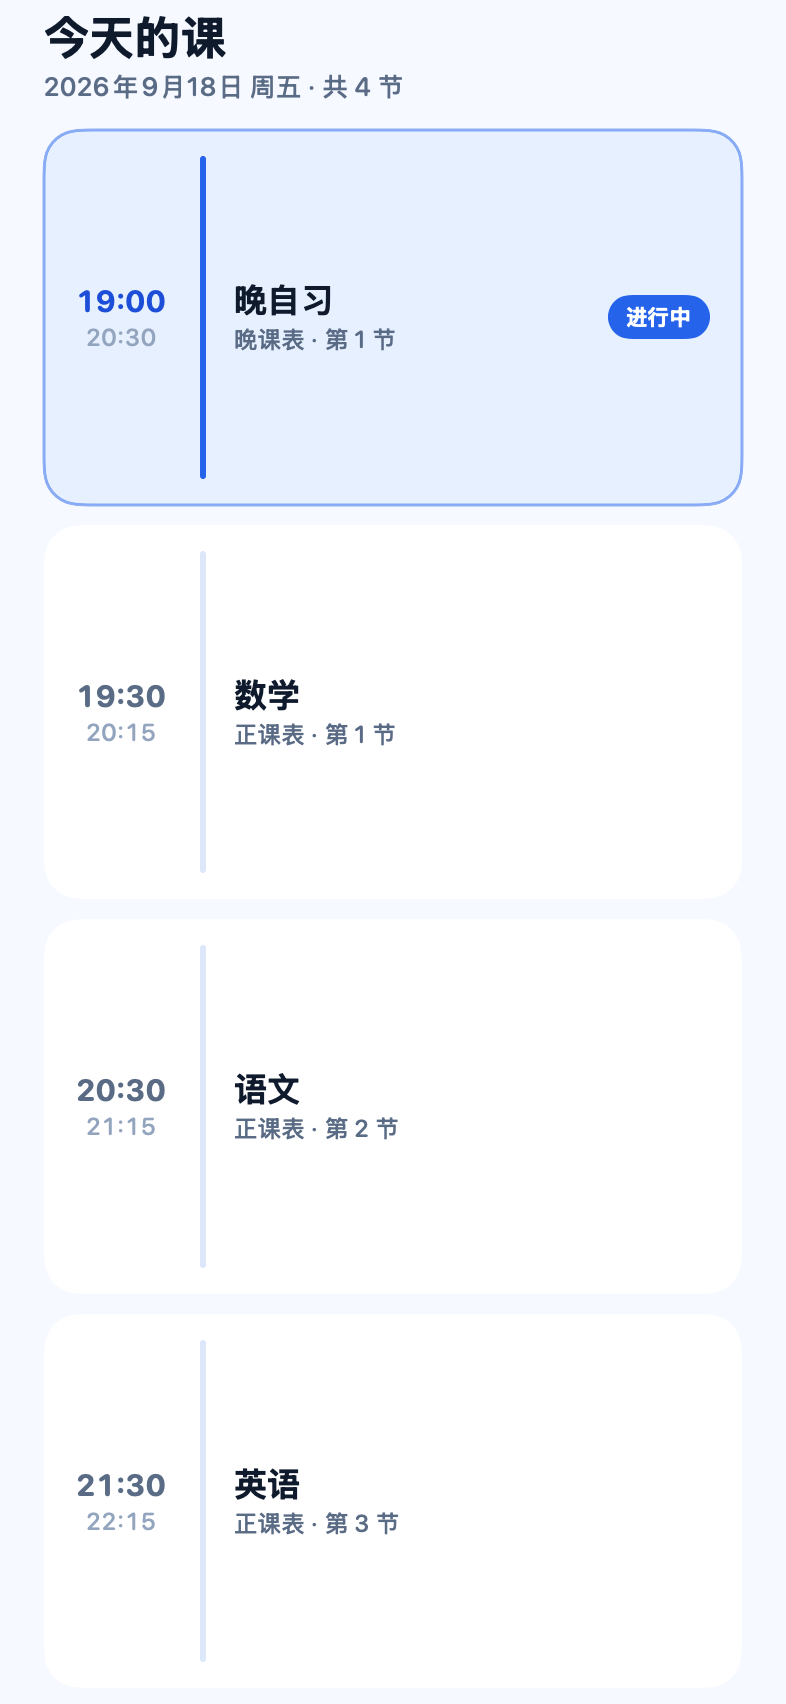
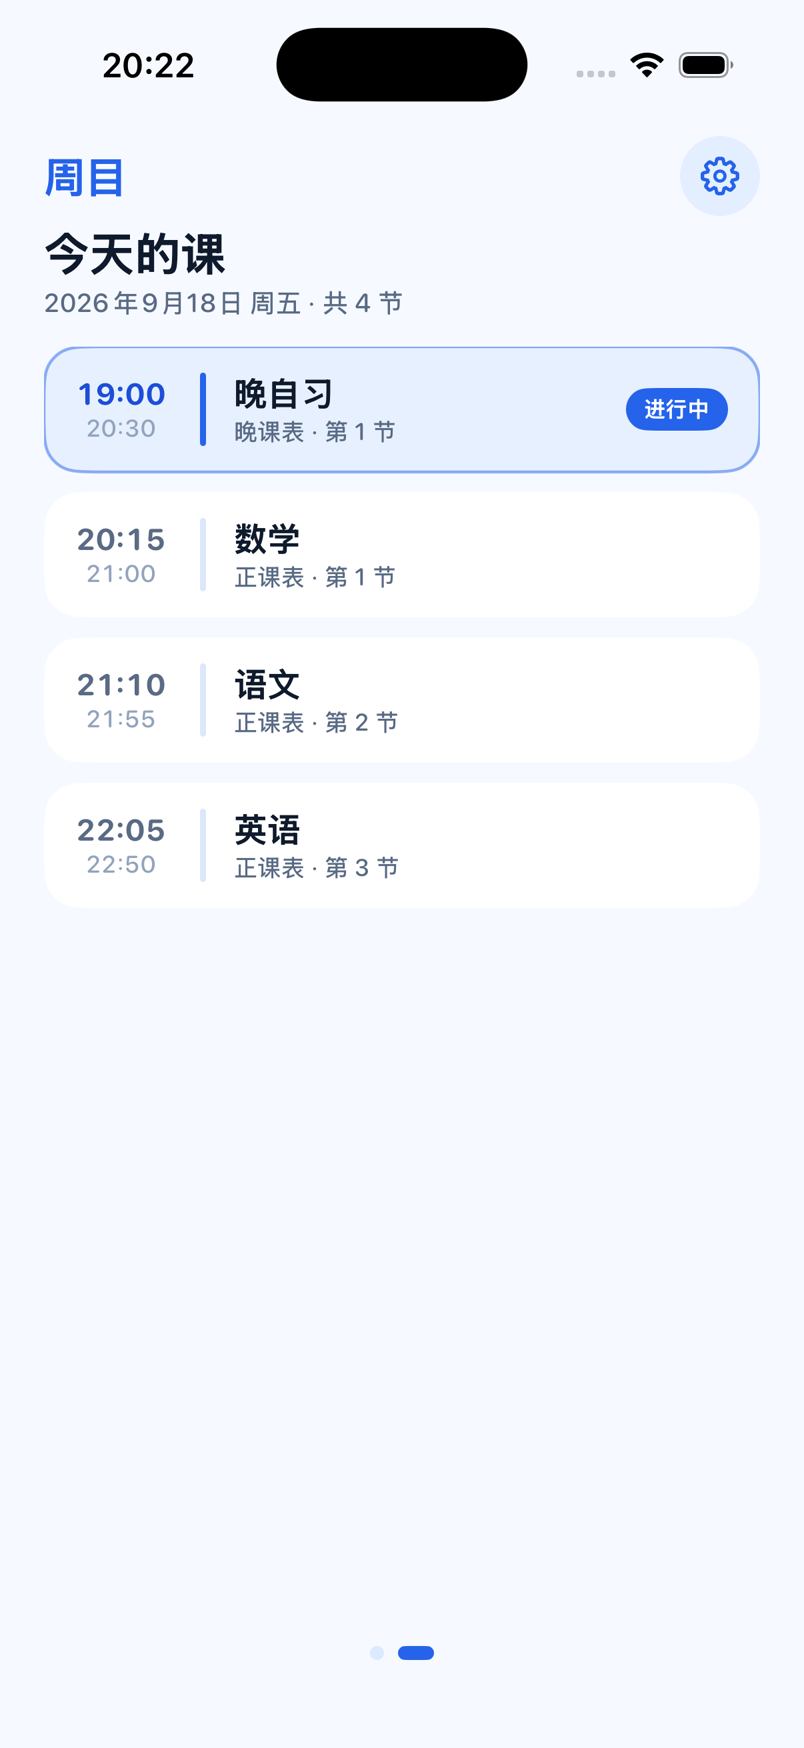
README 所有配图换成模拟器实拍
之前用的是 SwiftUI 离屏渲染（Tools/render_ui.sh）的图，
没有状态栏、没有圆角、灵动岛和锁屏也渲染不出来。

这次全部换成 iPhone 17 Pro / iOS 26.5 模拟器实拍：
- 01-home.png     第一页（圆环 + 三行倒计时）
- 03-today.png    第二页（当日完整课表，当前课标「进行中」）
- 04-settings.png 设置页（两张课表 + 灵动岛 + 预览）
- 05-editor.png   课表编辑器（每日节数 + 上下课时间 + 科目）
- 06-widget-medium.png  桌面中号小组件
- 08-island.jpg   灵动岛（紧凑态显示科目图标 + 倒计时）
- 09-lockscreen.jpg     锁屏实时活动卡片

顺带加了 Tools/siminput.swift + siminput.sh：
用 CGEvent 给模拟器发点击/长按/拖拽（System Events 的 click at 只能点不能滑），
配合坐标换算可以直接在设备逻辑坐标上操作，截图流程全自动。

图片从 3MB 级压到 50–350KB。

diff --git a/Tools/siminput.swift b/Tools/siminput.swift
@@ -1,0 +1,79 @@
+// 给 iOS 模拟器发鼠标事件。System Events 的 `click at` 只能点不能拖，
+// 截图流程里要翻页/滑动，所以直接用 CGEvent 发。
+//
+// 用法（屏幕坐标）：
+//   swift Tools/siminput.swift tap  <x> <y>
+//   swift Tools/siminput.swift drag <x1> <y1> <x2> <y2> [步数]
+import CoreGraphics
+import Foundation
+
+func pt(_ x: Double, _ y: Double) -> CGPoint { CGPoint(x: x, y: y) }
+
+func post(_ type: CGEventType, _ p: CGPoint, _ button: CGMouseButton = .left) {
+    CGEvent(mouseEventSource: nil, mouseType: type, mouseCursorPosition: p, mouseButton: button)?
+        .post(tap: .cghidEventTap)
+    usleep(16_000)
+}
+
+func move(_ p: CGPoint) {
+    post(.mouseMoved, p)
+}
+
+let a = CommandLine.arguments
+guard a.count >= 4 else {
+    FileHandle.standardError.write("用法: siminput tap x y | siminput drag x1 y1 x2 y2 [步骤]\n".data(using: .utf8)!)
+    exit(2)
+}
+
+switch a[1] {
+case "tap":
+    guard let x = Double(a[2]), let y = Double(a[3]) else { exit(2) }
+    let p = pt(x, y)
+    move(p)
+    usleep(90_000)
+    post(.leftMouseDown, p)
+    usleep(70_000)
+    post(.leftMouseUp, p)
+    print("tap (\(Int(x)), \(Int(y)))")
+
+case "drag":
+    guard a.count >= 6, let x1 = Double(a[2]), let y1 = Double(a[3]),
+          let x2 = Double(a[4]), let y2 = Double(a[5]) else { exit(2) }
+    let steps = a.count > 6 ? (Int(a[6]) ?? 30) : 30
+    let from = pt(x1, y1), to = pt(x2, y2)
+    move(from)
+    usleep(140_000)
+    post(.leftMouseDown, from)
+    // 前 1/4 慢慢起步，模拟真实滑动，避免被识别成 tap
+    for i in 1...steps {
+        let t = Double(i) / Double(steps)
+        let e = t < 0.25 ? t * 0.4 : 0.1 + (t - 0.25) * 1.2
+        let p = pt(from.x + (to.x - from.x) * min(e, 1), from.y + (to.y - from.y) * min(e, 1))
+        post(.leftMouseDragged, p)
+    }
+    usleep(70_000)
+    post(.leftMouseUp, to)
+    print("drag (\(Int(x1)), \(Int(y1))) → (\(Int(x2)), \(Int(y2)))")
+
+case "longpress":
+    guard let x = Double(a[2]), let y = Double(a[3]) else { exit(2) }
+    let hold = a.count > 4 ? (Double(a[4]) ?? 1.1) : 1.1
+    let p = pt(x, y)
+    move(p)
+    usleep(120_000)
+    post(.leftMouseDown, p)
+    // 按住期间轻微抖动，让系统识别成长按而不是拖拽
+    let end = Date().addingTimeInterval(hold)
+    var i = 0
+    while Date() < end {
+        let jitter = Double(i % 2 == 0 ? 1 : -1) * 0.6
+        post(.leftMouseDragged, pt(x + jitter, y + jitter))
+        i += 1
+    }
+    post(.leftMouseUp, p)
+    print("longpress (\(Int(x)), \(Int(y)))")
+
+default:
+    FileHandle.standardError.write("未知命令 \(a[1])\n".data(using: .utf8)!)
+    exit(2)
+}

diff --git a/README.md b/README.md
@@ -6,13 +6,19 @@
 
 浅色白蓝、深色黑蓝，**不联网、不要账号、不收集任何数据**。
 
-| 第一页 | 第二页 | 深色模式 |
+| 第一页 | 第二页 | 设置 |
 | :---: | :---: | :---: |
 | ![第一页](Screenshots/01-home.png) | ![当日课表](Screenshots/03-today.png) | ![设置](Screenshots/04-settings.png) |
 
 | 课表编辑器 | 桌面小组件 |
 | :---: | :---: |
 | ![课表编辑器](Screenshots/05-editor.png) | ![小组件](Screenshots/06-widget-medium.png) |
+
+| 灵动岛 | 锁屏实时活动 |
+| :---: | :---: |
+| ![灵动岛](Screenshots/08-island.jpg) | ![锁屏](Screenshots/09-lockscreen.jpg) |
+
+> 以上都是**模拟器实拍**（iPhone 17 Pro / iOS 26.5），不是设计稿。
 
 ---
 
